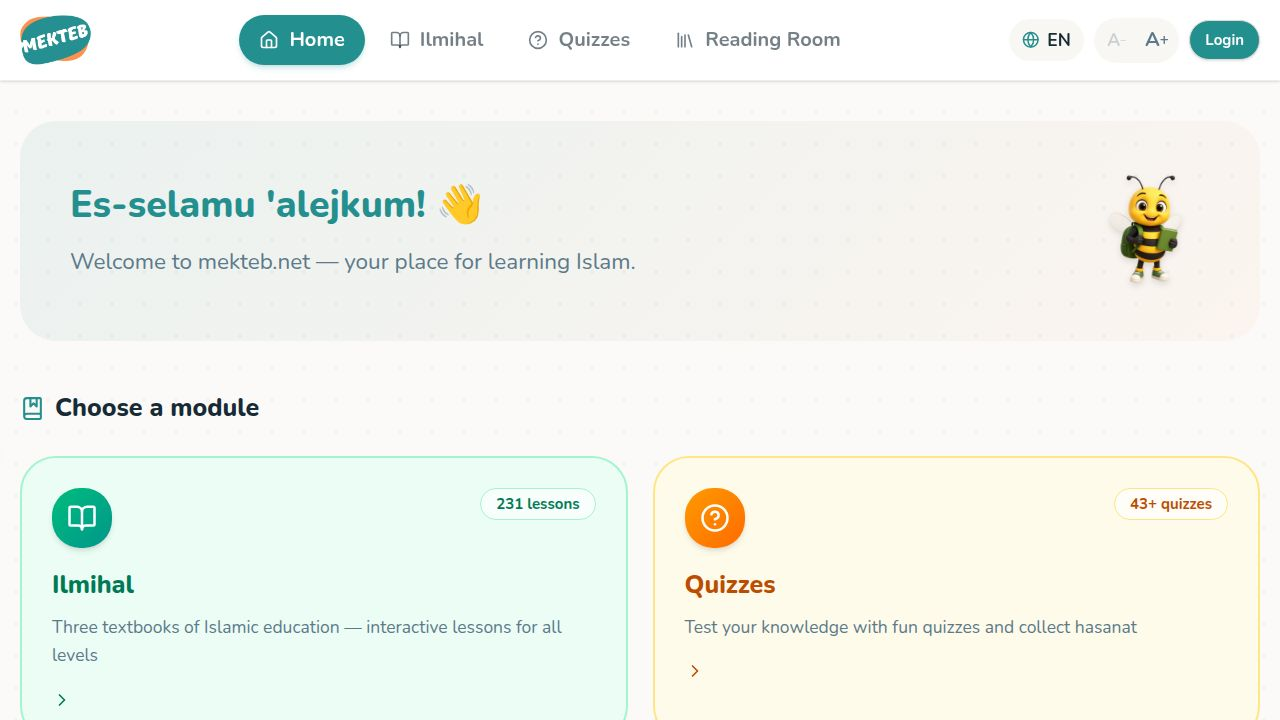
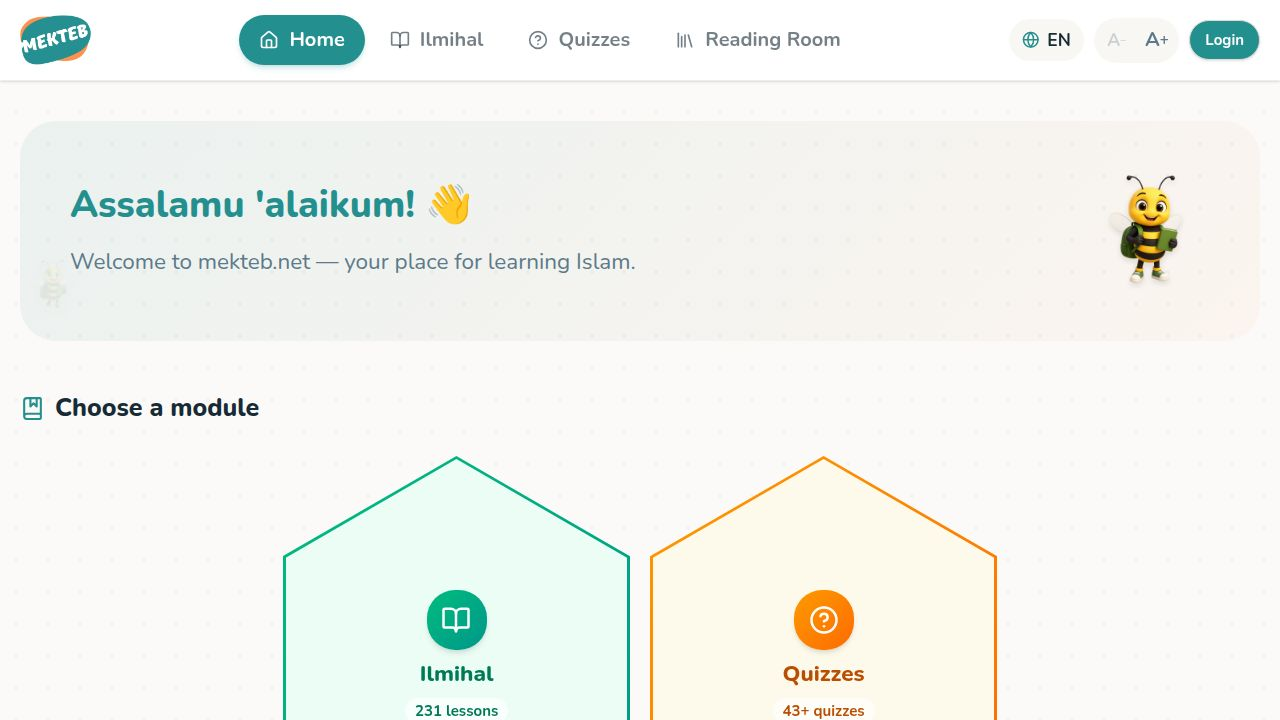
feat(i18n): Google Translate widget za sadržaj + IP-based default jezik + hex offset fix
- index.html: dodao Google Translate widget (https://, ne protocol-relative)
  sa skrivenim #google_translate_element kontejnerom i CSS-om koji potpuno
  skriva žutu .goog-te-banner-frame traku. MutationObserver fallback uklanja
  banner i resetuje body.top kad god ga Google ponovo doda.
- context/language.tsx: setGoogTransCookie postavlja /bs/<dst> cookie za
  host i .host, prazna vrijednost za bs (default = bez prevoda). safeReloadForLang
  guard preko sessionStorage spriječava reload-petlju kad browser blokira
  cookie write. Manuelni odabir jezika resetuje guard pa je uvijek odgovoran.
- pages/home.tsx: hex saće offset (translateX 13% + negativni mt) primjenjuje
  se SAMO kad red ima 2 kartice — popravlja necentriran zadnji red kada je
  ukupan broj modula neparan.

Code review (architect) je zatražio i notranslate refactor da Google ne
prevodi UI stringove koje već prevodi naš i18n; to je veliki posao na svim
stranicama i odlaže se za follow-up task.

diff --git a/artifacts/mekteb-arapsko-pismo/src/context/language.tsx b/artifacts/mekteb-arapsko-pismo/src/context/language.tsx
@@ -11,6 +11,58 @@ interface LanguageContextType {
 
 const LanguageContext = createContext<LanguageContextType | null>(null);
 
+/**
+ * Postavlja Google Translate `googtrans` cookie. Cookie ima format `/<src>/<dst>`,
+ * gdje je <src> izvorni jezik (bs, jer je sav sadržaj u bazi na bosanskom) i
+ * <dst> ciljni jezik na koji widget treba prevesti stranicu. Za bs (default,
+ * bez prevoda) cookie brišemo (prazna vrijednost + max-age=0). Postavljamo i
+ * `host` i `.host` varijantu jer Google čita oboje, zavisno od domene.
+ *
+ * Vraća true ako se cookie stvarno promijenio (znak da treba reload).
+ */
+function setGoogTransCookie(target: Lang): boolean {
+  const value = target === "bs" ? "" : `/bs/${target}`;
+  const current = (document.cookie.match(/(?:^|;\s*)googtrans=([^;]*)/)?.[1]) || "";
+  if (current === value) return false;
+
+  const host = window.location.hostname;
+  const dotHost = host.startsWith(".") ? host : `.${host}`;
+  const expires = value
+    ? `expires=${new Date(Date.now() + 365 * 24 * 3600 * 1000).toUTCString()}`
+    : "max-age=0";
+  document.cookie = `googtrans=${value}; path=/; ${expires}`;
+  document.cookie = `googtrans=${value}; path=/; domain=${dotHost}; ${expires}`;
+  return true;
+}
+
+/**
+ * Reload-guard: spriječava beskonačnu petlju kad browser ne dozvoljava upis
+ * `googtrans` cookie-a (private mode, blokirani 3rd-party cookies, neka
+ * korporativna policy). Bez ovog guarda, useEffect bi nakon svakog reloada
+ * vidio neusklađen cookie i opet pozvao `window.location.reload()`.
+ *
+ * Strategija: za dati ciljni jezik uradimo najviše JEDAN reload po sesiji
+ * (tab-life). Ako i nakon reloada cookie nije postavljen, batnemo se i samo
+ * zadržimo i18n UI prevod — Google Translate sloj jednostavno neće biti
+ * aktivan. Korisnik i dalje može ručno odabrati jezik (i ako i tada cookie
+ * fail-uje, isti guard spriječava petlju).
+ */
+function safeReloadForLang(target: Lang): void {
+  const KEY = "mekteb-translate-reload-for";
+  try {
+    if (sessionStorage.getItem(KEY) === target) {
+      // Već smo reloadali jednom za ovaj jezik u ovoj sesiji; ne pokušavaj opet.
+      return;
+    }
+    sessionStorage.setItem(KEY, target);
+  } catch {
+    // sessionStorage nedostupan (vrlo restriktivni browser) — bolje preskočiti
+    // reload nego rizikovati petlju.
+    return;
+  }
+  window.location.reload();
+}
+
 export function LanguageProvider({ children }: { children: ReactNode }) {
   const [lang, setLangState] = useState<Lang>(() => {
     try {
@@ -26,6 +78,13 @@ export function LanguageProvider({ children }: { children: ReactNode }) {
     try {
       const saved = localStorage.getItem("mekteb-lang");
       if (saved) {
+        // Prvi mount: ako spremljeni jezik nije bs i cookie ne odgovara,
+        // postavi cookie i pokušaj reload (uz guard koji spriječava petlju
+        // kad je cookie write blokiran).
+        if (saved !== "bs" && setGoogTransCookie(saved as Lang)) {
+          safeReloadForLang(saved as Lang);
+          return;
+        }
         setGeoDetected(true);
         return;
       }
@@ -42,6 +101,11 @@ export function LanguageProvider({ children }: { children: ReactNode }) {
             const detected = COUNTRY_TO_LANG[country];
             setLangState(detected);
             try { localStorage.setItem("mekteb-lang", detected); } catch {}
+            // Auto-detected jezik koji nije bs zahtijeva Google translate
+            // aktivaciju — postavi cookie pa reload (sa guardom).
+            if (detected !== "bs" && setGoogTransCookie(detected)) {
+              safeReloadForLang(detected);
+            }
           }
         })
         .catch(() => {})
@@ -52,6 +116,16 @@ export function LanguageProvider({ children }: { children: ReactNode }) {
   const setLang = useCallback((newLang: Lang) => {
     setLangState(newLang);
     try { localStorage.setItem("mekteb-lang", newLang); } catch {}
+    // Manuelni odabir jezika: postavi/brisi googtrans cookie i reload.
+    // Reload je intruzivan ali jedini pouzdan način da Google Translate
+    // ponovo prevede cijelu SPA stranicu na novi jezik (njegov MutationObserver
+    // ne pokriva pouzdano route promjene u SPA). Resetujemo guard ovdje
+    // jer je ovo eksplicitna korisnička akcija — guard je samo protiv
+    // automatskih (mount-time) petlji.
+    if (setGoogTransCookie(newLang)) {
+      try { sessionStorage.removeItem("mekteb-translate-reload-for"); } catch {}
+      safeReloadForLang(newLang);
+    }
   }, []);
 
   const tr: TranslationTree = translations[lang] || translations.bs;

diff --git a/artifacts/mekteb-arapsko-pismo/index.html b/artifacts/mekteb-arapsko-pismo/index.html
@@ -16,9 +16,91 @@
       gtag('js', new Date());
       gtag('config', 'G-P10X0MRPDG');
     </script>
+
+    <!--
+      Google Translate widget — koristi se za auto-prevod sadržaja
+      (lekcije, kvizovi, čitaonica) na jezik koji korisnik odabere
+      u našem language pickeru. UI stringovi su preveden kroz naš
+      i18n; widget pokriva ostali tekstualni sadržaj iz baze.
+
+      Žuta Google traka i tooltip su skriveni preko CSS-a ispod;
+      widget radi nevidljivo. Aktivacija ide preko googtrans cookie
+      koji postavi context/language.tsx prije reloada.
+    -->
+    <style>
+      /* Skriva žutu Google translate traku na vrhu (i sve njene artefakte). */
+      iframe.goog-te-banner-frame,
+      iframe.skiptranslate,
+      .goog-te-banner-frame.skiptranslate,
+      .goog-te-banner-frame {
+        display: none !important;
+        visibility: hidden !important;
+        height: 0 !important;
+        border: 0 !important;
+        position: absolute !important;
+        top: -9999px !important;
+        left: -9999px !important;
+        z-index: -1 !important;
+      }
+      .goog-tooltip,
+      .goog-tooltip:hover,
+      .goog-text-highlight {
+        display: none !important;
+        background: transparent !important;
+        box-shadow: none !important;
+      }
+      /* Google postavlja body { top: 40px } da ostavi mjesta za traku — anuliramo,
+         a NE diramo position (sticky header zavisi od default body position-a). */
+      body {
+        top: 0 !important;
+        margin-top: 0 !important;
+      }
+      /* Skriveni kontejner za sam widget. */
+      #google_translate_element {
+        display: none !important;
+        position: absolute !important;
+        top: -9999px !important;
+      }
+    </style>
+    <script type="text/javascript">
+      // Fallback: Google ponekad doda traku tek nakon load-a, pa MutationObserver
+      // uklanja banner i resetuje body.top kad god se pojavi.
+      (function() {
+        function clean() {
+          document.querySelectorAll('iframe.goog-te-banner-frame, iframe.skiptranslate').forEach(function(el) {
+            el.style.display = 'none';
+            el.style.height = '0';
+          });
+          if (document.body && document.body.style.top) {
+            document.body.style.top = '';
+          }
+        }
+        if (document.addEventListener) {
+          document.addEventListener('DOMContentLoaded', function() {
+            clean();
+            new MutationObserver(clean).observe(document.body, { childList: true, subtree: false });
+          });
+        }
+      })();
+    </script>
+    <script type="text/javascript">
+      function googleTranslateElementInit() {
+        // Source je bs (sav sadržaj u bazi je na bosanskom);
+        // widget zna prevesti na sve naše ciljne jezike.
+        new google.translate.TranslateElement({
+          pageLanguage: 'bs',
+          includedLanguages: 'bs,de,en,tr,ar',
+          autoDisplay: false,
+        }, 'google_translate_element');
+      }
+    </script>
+    <script type="text/javascript"
+      src="https://translate.google.com/translate_a/element.js?cb=googleTranslateElementInit"
+      defer></script>
   </head>
   <body>
     <div id="root"></div>
+    <div id="google_translate_element" aria-hidden="true"></div>
     <script type="module" src="/src/main.tsx"></script>
   </body>
 </html>

diff --git a/artifacts/mekteb-arapsko-pismo/src/pages/home.tsx b/artifacts/mekteb-arapsko-pismo/src/pages/home.tsx
@@ -126,7 +126,10 @@ export default function Home() {
           const rows: typeof MODULES[] = [];
           for (let i = 0; i < MODULES.length; i += 2) rows.push(MODULES.slice(i, i + 2));
           return rows.map((row, ri) => {
-            const isOffset = ri % 2 === 1;
+            // Offset/preklop primjenjujemo SAMO kad red ima 2 kartice (puni honeycomb).
+            // Za neparan ukupni broj modula, zadnji "offset" red ima 1 karticu —
+            // bez ovog guarda izgleda pomjerena/necentirana (translateX 13% + negativni mt).
+            const isOffset = ri % 2 === 1 && row.length === 2;
             return (
               <div
                 key={ri}
